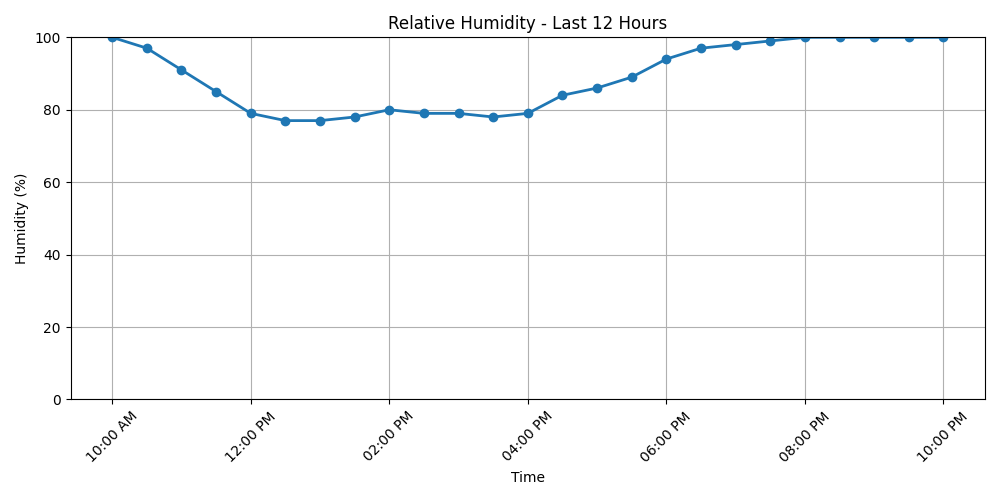
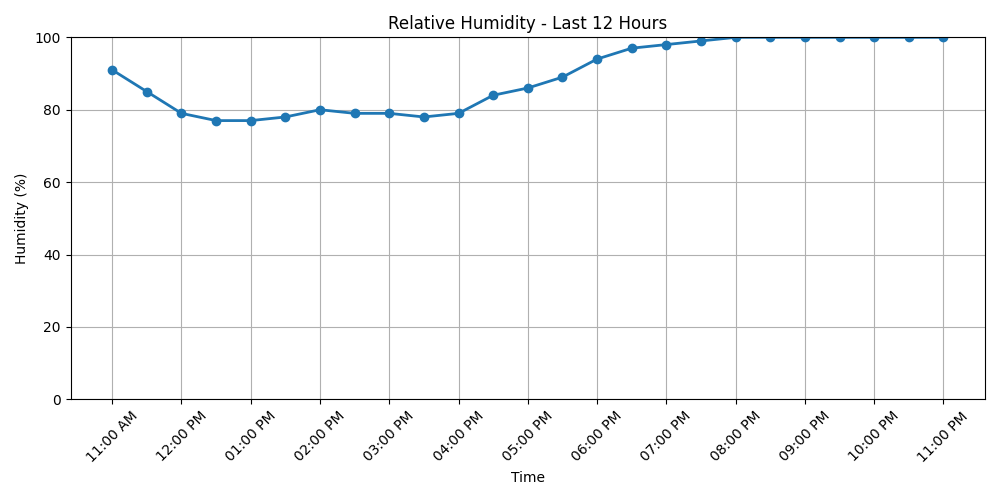
Added comments to python, integrated python with html

diff --git a/templates/webpage.html b/templates/webpage.html
@@ -26,6 +26,7 @@
             display: flex;
             gap: 15px;
             margin-bottom: 20px;
+            flex-direction: column;
         }
 
         /* Styling for each weather data box */
@@ -71,21 +72,25 @@
         <div class="box">
             <h3>Temperature</h3>
             <p>{{ current_temp }} °C</p>
+            <img src="{{ url_for('static', filename='temp_graph.png') }}" alt="Temperature Graph">
         </div>
         
         <div class="box">
             <h3>Humidity</h3>
             <p>{{ current_humidity }} %</p>
+            <img src="{{ url_for('static', filename='humidity_graph.png') }}" alt="Relative Humidity Graph">
         </div>
 
         <div class="box">
             <h3>Wind Speed</h3>
             <p>{{ current_wind_spd }} km/h</p>
+            <img src="{{ url_for('static', filename='wind_graph.png') }}" alt="Wind Speed Graph">
         </div>
 
         <div class="box">
             <h3>Rainfall</h3>
             <p>{{ current_rain }} mm</p>
+            <img src="{{ url_for('static', filename='rain_graph.png') }}" alt="rainfall Graph">
         </div>
 
     </div>

diff --git a/main.py b/main.py
@@ -3,25 +3,34 @@ import matplotlib.pyplot as plt
 from datetime import datetime, timedelta
 import matplotlib.dates as mdates
 
+#HTTP header that identifies the application when requesting data from BOM API
 headers = {
     "User-Agent": "Mozilla/5.0 (Windows NT 10.0; Win64; x64) AppleWebKit/537.36 (KHTML, like Gecko) Chrome/120.0.0.0 Safari/537.36"
 }
 
+#Request the latest weather observations from BOM
 response = requests.get(f"https://www.bom.gov.au/fwo/IDV60801/IDV60801.94857.json", headers=headers)
 
+#If above request succeeds, convert JSON response into python dictionary
 if response.status_code == 200:
     data = response.json()
 
+#Function to generate Temperature Graph
 def getTemp():
+    #Initialise list variables to store x-axis (Time) and y-axis values (Temperature)
     x = []
     y = []
 
+    #Retrieve weather observations from BOM
     observations = data["observations"]["data"]
 
+    #Determine the timestamp of most recent observation
     latest = datetime.strptime(observations[0]["local_date_time_full"], "%Y%m%d%H%M%S")
 
+    #Calculate timestamp from 12 hours ago
     last_time = latest - timedelta(hours=12)
 
+    #Collect Temperature reading from the last 12 hours
     for observation in observations:
         observation_time = datetime.strptime(observation["local_date_time_full"], "%Y%m%d%H%M%S")
 
@@ -29,36 +38,46 @@ def getTemp():
             x.append(observation_time)
             y.append(observation["air_temp"])
 
+    #Reverse list so that the graphs read in order, from oldest to newest
     x.reverse()
     y.reverse()
 
+    #Create and format the graph itself
     fig, ax = plt.subplots(figsize=(10, 5))
     ax.plot(x, y, marker='o', linewidth=2)
 
+    #Display time labels for every hour of the last 12 hours
     ax.xaxis.set_major_formatter(mdates.DateFormatter('%I:%M %p'))
-    ax.xaxis.set_major_locator(mdates.HourLocator(interval=2))
+    ax.xaxis.set_major_locator(mdates.HourLocator(interval=1))
 
+    #Label graph and it axes
     ax.set_title("Temperature - Last 12 Hours")
     ax.set_xlabel("Time")
-    ax.set_ylabel("Temp (Celcius")
+    ax.set_ylabel("Temp (Celcius)")
 
+    #Plot the graph and save the image to display
     plt.xticks(rotation=45)
     plt.grid(True)
     plt.tight_layout()
-
     plt.savefig("static/temp_graph.png")
     plt.close()
 
+#Function to generate Wind Graph
 def getWind():
+    #Initialise list variables to store x-axis (Time) and y-axis values (Wind)
     x = []
     y = []
 
+    #Retrieve weather observations from BOM
     observations = data["observations"]["data"]
 
+    #Determine the timestamp of most recent observation
     latest = datetime.strptime(observations[0]["local_date_time_full"], "%Y%m%d%H%M%S")
 
+    #Calculate timestamp from 12 hours ago
     last_time = latest - timedelta(hours=12)
 
+    #Collect Wind reading from the last 12 hours
     for observation in observations:
         observation_time = datetime.strptime(observation["local_date_time_full"], "%Y%m%d%H%M%S")
 
@@ -68,37 +87,47 @@ def getWind():
             x.append(observation_time)
             y.append(wind_speed)
 
+    #Reverse list so that the graphs read in order, from oldest to newest
     x.reverse()
     y.reverse()
 
+    #Create and format the graph itself
     fig, ax = plt.subplots(figsize=(10, 5))
     ax.plot(x, y, marker='o', linewidth=2)
 
+    #Display time labels for every hour of the last 12 hours
     ax.xaxis.set_major_formatter(mdates.DateFormatter('%I:%M %p'))
-    ax.xaxis.set_major_locator(mdates.HourLocator(interval=2))
+    ax.xaxis.set_major_locator(mdates.HourLocator(interval=1))
 
+    #Label graph and it axes
     ax.set_ylim(bottom=0)
     ax.set_title("Wind Speed - Last 12 Hours")
     ax.set_xlabel("Time")
     ax.set_ylabel("Wind (km/h)")
 
+    #Plot the graph and save the image to display
     plt.xticks(rotation=45)
     plt.grid(True)
     plt.tight_layout()
-
     plt.savefig("static/wind_graph.png")
     plt.close()
 
+#Function to generate Humidity Graph
 def getHum():
+    #Initialise list variables to store x-axis (Time) and y-axis values (Humidity)
     x = []
     y = []
 
+    #Retrieve weather observations from BOM
     observations = data["observations"]["data"]
 
+    #Determine the timestamp of most recent observation
     latest = datetime.strptime(observations[0]["local_date_time_full"], "%Y%m%d%H%M%S")
 
+    #Calculate timestamp from 12 hours ago
     last_time = latest - timedelta(hours=12)
 
+    #Collect Humidity reading from the last 12 hours
     for observation in observations:
         observation_time = datetime.strptime(observation["local_date_time_full"], "%Y%m%d%H%M%S")
 
@@ -108,23 +137,77 @@ def getHum():
             x.append(observation_time)
             y.append(humidity)
 
+    #Reverse list so that the graphs read in order, from oldest to newest
     x.reverse()
     y.reverse()
 
+    #Create and format the graph itself
     fig, ax = plt.subplots(figsize=(10, 5))
     ax.plot(x, y, marker='o', linewidth=2)
 
+    #Display time labels for every hour of the last 12 hours
     ax.xaxis.set_major_formatter(mdates.DateFormatter('%I:%M %p'))
-    ax.xaxis.set_major_locator(mdates.HourLocator(interval=2))
+    ax.xaxis.set_major_locator(mdates.HourLocator(interval=1))
 
+    #Label graph and it axes
     ax.set_ylim(0, 100)
     ax.set_title("Relative Humidity - Last 12 Hours")
     ax.set_xlabel("Time")
     ax.set_ylabel("Humidity (%)")
 
+    #Plot the graph and save the image to display
     plt.xticks(rotation=45)
     plt.grid(True)
     plt.tight_layout()
-
     plt.savefig("static/humidity_graph.png")
+    plt.close()
+
+#Function to generate Rainfall Graph
+def getRain():
+    #Initialise list variables to store x-axis (Time) and y-axis values (Rainfall)
+    x = []
+    y = []
+
+    #Retrieve weather observations from BOM
+    observations = data["observations"]["data"]
+
+    #Determine the timestamp of most recent observation
+    latest = datetime.strptime(observations[0]["local_date_time_full"], "%Y%m%d%H%M%S")
+
+    #Calculate timestamp from 12 hours ago
+    last_time = latest - timedelta(hours=12)
+
+    #Collect Humidity reading from the last 12 hours
+    for observation in observations:
+        observation_time = datetime.strptime(observation["local_date_time_full"], "%Y%m%d%H%M%S")
+
+        rain = float(observation.get("rain_trace", 0))
+
+        if observation_time >= last_time:
+            x.append(observation_time)
+            y.append(rain)
+
+    #Reverse list so that the graphs read in order, from oldest to newest
+    x.reverse()
+    y.reverse()
+
+    #Create and format the graph itself
+    fig, ax = plt.subplots(figsize=(10, 5))
+    ax.bar(x, y, width=0.05)
+
+    #Display time labels for every hour of the last 12 hours
+    ax.xaxis.set_major_formatter(mdates.DateFormatter('%I:%M %p'))
+    ax.xaxis.set_major_locator(mdates.HourLocator(interval=1))
+
+    #Label graph and it axes
+    ax.set_ylim(bottom=0)
+    ax.set_title("Rainfall - Last 12 Hours")
+    ax.set_xlabel("Time")
+    ax.set_ylabel("Rain (mm)")
+
+    #Plot the graph and save the image to display
+    plt.xticks(rotation=45)
+    plt.grid(True)
+    plt.tight_layout()
+    plt.savefig("static/rain_graph.png")
     plt.close()

diff --git a/app.py b/app.py
@@ -1,15 +1,27 @@
 from flask import Flask, render_template
-from main import getTemp, getWind, getHum
+from main import getTemp, getWind, getHum, getRain, data
+from datetime import datetime
 
+#Create Flask application instance
 app = Flask(__name__)
 
-getTemp()
-getWind()
-getHum()
 
+#Define the route for the home page
+#When a user visits "/", Flask render the webpage.html template
 @app.route("/")
 def index():
-    return render_template("base.html")
+    #Generate weather graphs when the application starts
+    getTemp()
+    getWind()
+    getHum()
+    getRain()
 
+    #Get last update date and time
+    last_updated = data["observations"]["data"][0]["local_date_time"]
+
+
+    return render_template("webpage.html", last_updated=last_updated)
+
+#Start the Flask developmenmt server
 if __name__ == "__main__":
     app.run()